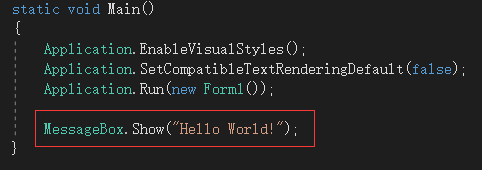
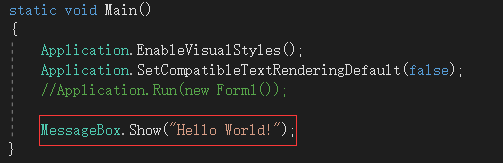
更改代码以及图片

diff --git a/HelloWindowsForms/Program.cs b/HelloWindowsForms/Program.cs
@@ -16,7 +16,7 @@ namespace HelloWindowsForms
         {
             Application.EnableVisualStyles();
             Application.SetCompatibleTextRenderingDefault(false);
-            Application.Run(new Form1());
+            //Application.Run(new Form1());
 
             MessageBox.Show("Hello World!");
         }
